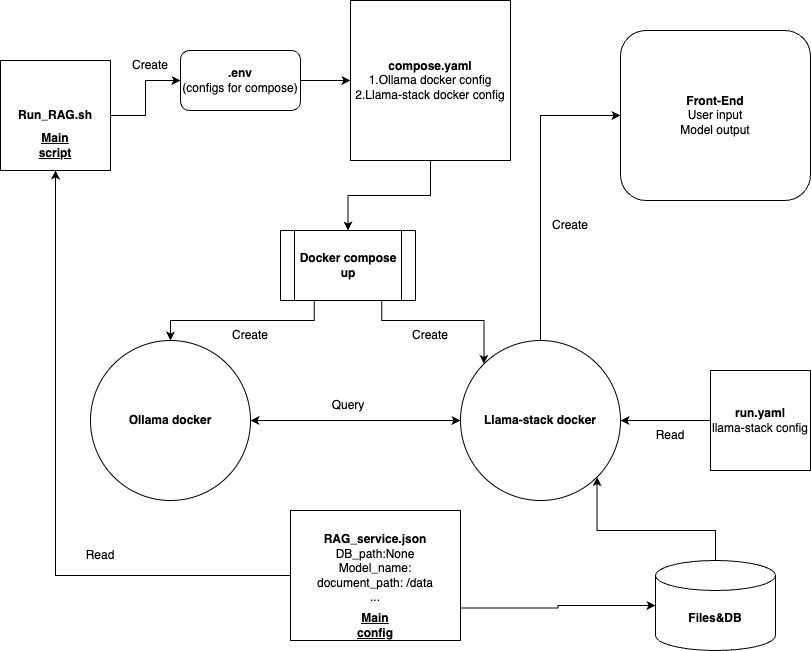
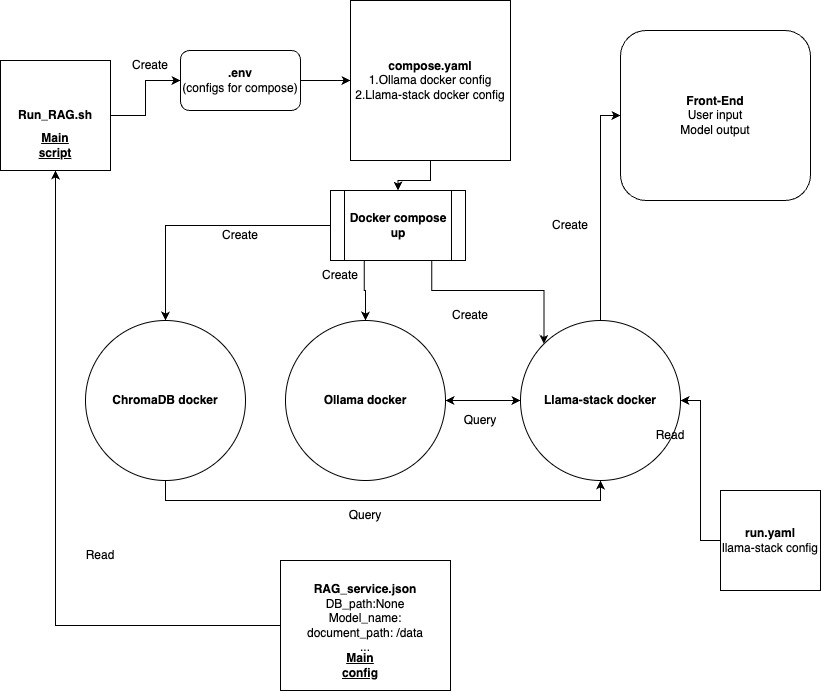
add how to run readme

diff --git a/examples/E2E-RAG-App/gradio_interface.py b/examples/E2E-RAG-App/gradio_interface.py
@@ -3,7 +3,6 @@ import json
 import os
 import uuid
 from typing import AsyncGenerator, Generator, List, Optional
-
 import chromadb
 
 import gradio as gr
@@ -28,7 +27,7 @@ class LlamaChatInterface:
         self.client = LlamaStackClient(base_url=f"http://{host}:{port}")
         self.chroma_client = chromadb.HttpClient(host=host, port=chroma_port)
         self.agent = None
-        self.memory_bank_id = "test_bank_999"
+        self.memory_bank_id = f"bank-{uuid.uuid4()}"
         self.chat_history = []
 
     async def initialize_system(self):
@@ -85,8 +84,22 @@ class LlamaChatInterface:
 
     async def initialize_agent(self):
         """Initialize the agent with model registration and configuration."""
-        model_name = "Llama3.2-3B-Instruct"
-
+        model_name = "Llama3.2-1B-Instruct"
+        # Model registration
+        response = requests.post(
+            f"http://{self.host}:{self.port}/alpha/models/register",
+            headers={"Content-Type": "application/json"},
+            data=json.dumps(
+                {
+                    "model_id": model_name,
+                    "provider_model_id": None,
+                    "provider_id": "remote::ollama",
+                    # "provider_id": "inline::meta-reference-0",
+                    "metadata": None,
+                }
+            ),
+        )
+        print(f"Model registration status: {response.status_code}")
         agent_config = AgentConfig(
             model=model_name,
             instructions="You are a helpful assistant that can answer questions based on provided documents.",

diff --git a/examples/E2E-RAG-App/README.md b/examples/E2E-RAG-App/README.md
@@ -14,22 +14,49 @@ Overview of how it works:
 
 ![RAG_workflow](./RAG_workflow.jpg)
 
-How to run:
-Install docker according to this [web page](https://docs.docker.com/engine/install/).
 
-1. We have main config `RAG_service.json` , please change `model_name` and `document_path` accordingly.
-2. `run_RAG.sh` is the main script that can create `.env` file for compose.yaml and then actually start the `docker compose`. `compose.yaml` is the main docker yaml that specifies all the mount option and docker configs, change the mounts if needed.
+
+## Prerequisite:
+
+Install docker: Check [this doc for Mac](https://docs.docker.com/desktop/setup/install/mac-install/), [this doc for Windows](https://docs.docker.com/desktop/setup/install/windows-install/) and this [instruction for Linux](https://docs.docker.com/engine/install/).
+
+For Mac and Windows users, you need to start the Docker app manually after installation.
+
+## How to run:
+
+1. We have main config `RAG_service.json` inside of the docker folder, please change `model_name` and `document_path` accordingly, for example:
+
+```yaml
+{
+  "model_name": "llama3.2:1b-instruct-fp16",
+  "document_path": "${HOME}/work/llama-stack-apps/examples/E2E-RAG-App/example_data"
+}
+```
+
+2. Inside of docker folder, `run_RAG.sh` is the main script that can create `.env` file for compose.yaml and then actually start the `docker compose` process to launch all the pipelines in our dockers. `compose.yaml` is the main docker yaml that specifies all the mount option and docker configs, change the mounts if needed.
 
 ```bash
 cd docker
 bash run_RAG.sh
 ```
 
-3. Ollama docker will start and this docker will pull and run the llama model specified. The `ollama_start.sh` control the Ollama docker startup behavior, change it if needed. You can log into the docker by
+> [!TIP]
+> You can check the status of dockers by typing `docker ps` on another terminal.
+
+3. Ollama docker will start and this docker will pull and run the llama model specified. The `ollama_start.sh` control the Ollama docker startup behavior, change it if needed.
+
+> [!TIP]
+> On anther terminal, you can log into the docker and check which model has been hosted, by following code:
 
 ```bash
 docker exec -it docker-ollama-1 bash
+ollama ps
 ```
 
-4. Llama-stack docker will start as well. The `llama_stack_start.sh` control the docker startup behavior, change it if needed. (As we have not yet have a working llama-stack docker image, this `llama_stack_start.sh` currently on-the-fly install llama-stack from source) It should be able to run llama-stack server based on the  `llama_stack_run.yaml` config. Once the server is ready, then it will run the `rag_main.py`.
+> Check more about Ollama instruction [here](https://github.com/ollama/ollama)
 
+4. ChromaDB docker will also start. This docker will host the chroma database that can interact with llama-stack.
+
+5. Lastly, Llama-stack docker will start. The `llama_stack_start.sh` control the docker startup behavior, change it if needed. It should be able to run llama-stack server based on the  `llama_stack_run.yaml` config. Once the server is ready, then it will run the `gradio_interface.py`.
+
+6. `gradio_interface.py` will show a public link. You can access the gradio UI by putting this link to the browser. Then you can start your chat in the gradio web page.
